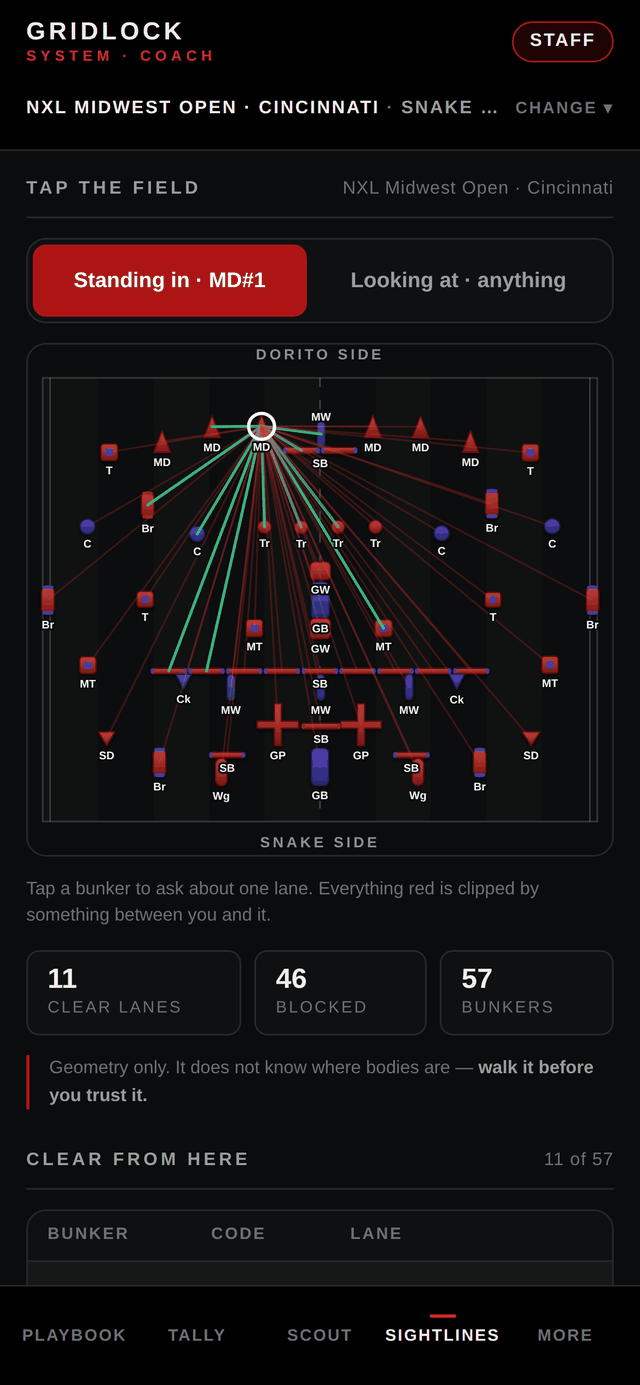
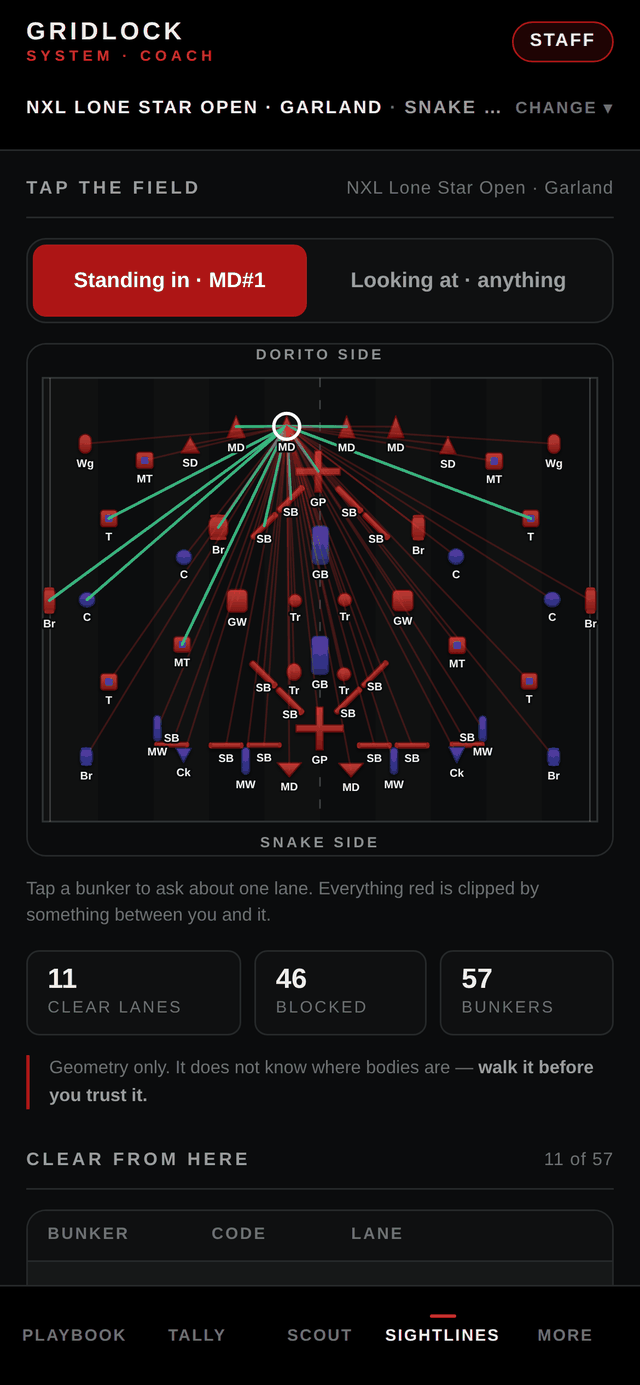
Open on the Lone Star Open, and lead with it
It is the next event on the calendar — Garland, 17 to 20 September — so
it is the one a coach opening the app this fortnight wants on screen. It
is now the default field, the first in the picker, the one the store
screenshots and the landing page show, and the one an unknown saved field
falls back to.

Changing which field the app opens on found a test that had been passing
for the wrong reason. The curve-smoothing check read the paths that were
actually drawn on screen but compared them against Midwest's obstacles,
which it named directly. With a different field on screen it was checking
one layout's curves against another's bunkers, and reported eight
collisions that were not there. It now takes the obstacles from whatever
field is drawn, and runs on all three rather than on one.

Three more checks were pinned to "mwo" where what they meant was "the
field this happened on". Those now read the current layout, so the next
change of opening field does not break them.

368 function checks, 73 device checks across 17 devices, 173/173 bunkers
at 0.0000 ft across three layouts, load test within budget.

Claude-Session: https://claude.ai/code/session_019NY29crEcm2oYkRmb2ARNX

diff --git a/test/functions.js b/test/functions.js
@@ -719,7 +719,7 @@ const ROSTER = [
     document.getElementById("copyIn").value = JSON.stringify({format:"gridlock.coach.copy",v:1,
       data:{layoutKey:"tbo", roster:[{name:"Ghost",num:1,p:"",s:""}]}});
     window.loadCopy("merge");
-    return S.layoutKey === "mwo" && S.roster.some(r => r.name === "Ghost");
+    return !!LAYOUTS[S.layoutKey] && S.roster.some(r => r.name === "Ghost");
   }));
   check("the copy screens are on Nexus", await ev(() => {
     window.set({ tab:"more", more:"nexus" });
@@ -775,7 +775,7 @@ const ROSTER = [
   await ev(() => window.markOut("us", "Reyes"));
   check("an out records the call, the field and the opponent", await ev(() => {
     const o = S.tally[0];
-    return o.script === "snake" && o.layout === "mwo" && o.vs === "Rejects";
+    return o.script === "snake" && o.layout === S.layoutKey && o.vs === "Rejects";
   }));
   await ev(() => { window.setOutBunker(0, "how", "Laned"); window.setOutBunker(0, "by", "#7"); });
   check("an out records how, and who did it", await ev(() =>
@@ -792,7 +792,7 @@ const ROSTER = [
 
   /* ------------------------------------------------ counting what happened */
   G("History");
-  await ev(() => window.set({ tab: "playbook", script: "snake", point: 1, tally: [
+  await ev(() => window.set({ tab: "playbook", layoutKey: "mwo", script: "snake", point: 1, tally: [
     {pt:1, side:"us",   name:"Reyes",  script:"snake", layout:"mwo", vs:"Rejects", how:"Laned",       by:"#7"},
     {pt:1, side:"us",   name:"Vance",  script:"snake", layout:"mwo", vs:"Rejects", how:"Laned",       by:"#7"},
     {pt:1, side:"them", name:"3",      script:"snake", layout:"mwo", vs:"Rejects"},
@@ -1109,8 +1109,10 @@ const ROSTER = [
   // right angles. Rounding must not push the curve into a bunker, so this
   // samples what is actually drawn — the real path element, at 4 samples a
   // foot — and checks every sample against every footprint.
-  const curve = await ev(() => {
-    const obs = routeObstacles(LAYOUTS.mwo.bunkers);
+  const sampleCurves = () => ev(() => {
+    // Whatever field is on screen — the obstacles have to be that field's, or
+    // this compares one layout's curves against another's bunkers.
+    const obs = routeObstacles(curLayout().bunkers);
     const svg = document.querySelector(".field-wrap[data-live] svg.field");
     const paths = [...svg.querySelectorAll("path[stroke='#e5342f']")];
     const bad = [];
@@ -1129,10 +1131,22 @@ const ROSTER = [
         prev = cur;
       }
     });
-    return { paths: paths.length, bad: [...new Set(bad)] };
+    return { key: S.layoutKey, paths: paths.length, bad: [...new Set(bad)] };
   });
+  const curve = await sampleCurves();
   check("the drawn curve is sampled on all five paths", curve.paths === 5, `${curve.paths} paths`);
-  check("rounding a corner never pushes the run into a bunker", curve.bad.length === 0, curve.bad.join(", "));
+  // Every field, not just the one the app happens to open on: rounding that
+  // clears one layout can cut a corner into a bunker on another.
+  const curves = [curve];
+  for(const k of ["mwo", "tby"]){
+    await ev(x => window.set({ layoutKey: x }), k);
+    await page.waitForTimeout(180);
+    curves.push(await sampleCurves());
+  }
+  const cut = curves.filter(c => c.bad.length);
+  check("rounding a corner never pushes the run into a bunker, on any field",
+    cut.length === 0, cut.map(c => `${c.key}: ${c.bad.join(" ")}`).join(" | ")
+      || curves.map(c => c.key).join(", "));
 
   check("edit mode puts a handle on every corner", await ev(() => {
     const corners = currentPaths().reduce((n, p) => n + (p.via || []).length, 0);
@@ -1536,6 +1550,10 @@ const ROSTER = [
   // field owner sent the official 2D. It is the third field, and the first one
   // added after everything geometric had already been made general.
   check("Lone Star carries its own 58 bunkers", await ev(() => LAYOUTS.lso.bunkers.length === 58));
+  check("the app opens on the event that is next", await ev(() => {
+    localStorage.clear();
+    return defaultState().layoutKey === "lso" && Object.keys(LAYOUTS)[0] === "lso";
+  }));
   check("all three fields are different fields", await ev(() => {
     const sig = k => LAYOUTS[k].bunkers.map(b => b.id + b.x + b.y).join();
     return new Set(["mwo", "tby", "lso"].map(sig)).size === 3;

diff --git a/android/app/src/main/assets/public/index.html b/android/app/src/main/assets/public/index.html
@@ -882,8 +882,6 @@ const LSO = [
 ];
 
 const LAYOUTS = {
-  mwo: {name:"NXL Midwest Open · Cincinnati", key:"mwo", bunkers:MWO,
-        source:"Digitized from the official NXL labeled 2D on its printed 10-ft grid."},
   lso: {name:"NXL Lone Star Open · Garland", key:"lso", bunkers:LSO,
         source:"Digitized from the official NXL labeled 2D on its printed 10-ft grid. "
              + "That map is 1500px wide, so these are good to about a fifth of a foot.",
@@ -895,7 +893,9 @@ const LAYOUTS = {
         // off a walk: one man per wire, how far up the field set by how
         // aggressive the break is, never two on the same beam. A coach who has
         // walked Tampa should drag them where they belong — Edit path saves it.
-        plantsFrom:"rule"}
+        plantsFrom:"rule"},
+  mwo: {name:"NXL Midwest Open · Cincinnati", key:"mwo", bunkers:MWO,
+        source:"Digitized from the official NXL labeled 2D on its printed 10-ft grid."}
 };
 const BREAKS = {
   hold:{name:"Hold & Read", paths:[
@@ -1015,7 +1015,7 @@ window.delTeam = name => {
 const defaultState = () => ({
   entered:false, role:"guest", email:"",
   tab:"playbook", more:"classes",
-  layoutKey:"mwo", script:"snake", playing:false, t:0,
+  layoutKey:"lso", script:"snake", playing:false, t:0,
   faceOn:true, shotOn:true, rolesOn:true,
   left:{name:"Blast Camp"},        // which team is in the pit; what you know
   right:{name:"Rejects"},          // about them lives in scout[], keyed by team
@@ -1067,7 +1067,7 @@ function save(s){localStorage.setItem(STORE_KEY, JSON.stringify(s))}
 let S = load();
 // A saved layout that no longer ships — the fabricated Tampa Bay and Cincinnati
 // entries — must not leave a coach staring at an empty field.
-if(!LAYOUTS[S.layoutKey]) S.layoutKey = "mwo";
+if(!LAYOUTS[S.layoutKey]) S.layoutKey = "lso";
 
 // A half-finished paste is scratch, not a record. It should not still be sitting
 // open three days later at the next event.
@@ -1106,7 +1106,7 @@ if(S.codeWords && !(S.codes||[]).length){
 // sites used to fall back and half read straight through, so an unknown key —
 // a layout that stopped shipping, a corrupted save — took the whole screen
 // down instead of showing the field it does have.
-function curLayout(){ return LAYOUTS[S.layoutKey] || LAYOUTS.mwo; }
+function curLayout(){ return LAYOUTS[S.layoutKey] || LAYOUTS.lso; }
 window.S = S;   // the bridge in native.js reads this; set() mutates in place
 const params = new URLSearchParams(location.search);
 if(params.get("c")){ S.joinCode = params.get("c"); S.entered = true; S.tab = "more"; S.more = "classes"; }
@@ -1519,7 +1519,7 @@ window.loadCopy = mode => {
   SESSION.forEach(k => { held[k] = S[k]; });
   const next = mode === "replace" ? {...defaultState(), ...d, ...held} : mergeInto(S, d);
   Object.keys(next).forEach(k => { S[k] = next[k]; });
-  if(!LAYOUTS[S.layoutKey]) S.layoutKey = "mwo";
+  if(!LAYOUTS[S.layoutKey]) S.layoutKey = "lso";
   dropPathCache();
   S.copyText = ""; save(S); render();
 };

diff --git a/ios/App/App/public/index.html b/ios/App/App/public/index.html
@@ -882,8 +882,6 @@ const LSO = [
 ];
 
 const LAYOUTS = {
-  mwo: {name:"NXL Midwest Open · Cincinnati", key:"mwo", bunkers:MWO,
-        source:"Digitized from the official NXL labeled 2D on its printed 10-ft grid."},
   lso: {name:"NXL Lone Star Open · Garland", key:"lso", bunkers:LSO,
         source:"Digitized from the official NXL labeled 2D on its printed 10-ft grid. "
              + "That map is 1500px wide, so these are good to about a fifth of a foot.",
@@ -895,7 +893,9 @@ const LAYOUTS = {
         // off a walk: one man per wire, how far up the field set by how
         // aggressive the break is, never two on the same beam. A coach who has
         // walked Tampa should drag them where they belong — Edit path saves it.
-        plantsFrom:"rule"}
+        plantsFrom:"rule"},
+  mwo: {name:"NXL Midwest Open · Cincinnati", key:"mwo", bunkers:MWO,
+        source:"Digitized from the official NXL labeled 2D on its printed 10-ft grid."}
 };
 const BREAKS = {
   hold:{name:"Hold & Read", paths:[
@@ -1015,7 +1015,7 @@ window.delTeam = name => {
 const defaultState = () => ({
   entered:false, role:"guest", email:"",
   tab:"playbook", more:"classes",
-  layoutKey:"mwo", script:"snake", playing:false, t:0,
+  layoutKey:"lso", script:"snake", playing:false, t:0,
   faceOn:true, shotOn:true, rolesOn:true,
   left:{name:"Blast Camp"},        // which team is in the pit; what you know
   right:{name:"Rejects"},          // about them lives in scout[], keyed by team
@@ -1067,7 +1067,7 @@ function save(s){localStorage.setItem(STORE_KEY, JSON.stringify(s))}
 let S = load();
 // A saved layout that no longer ships — the fabricated Tampa Bay and Cincinnati
 // entries — must not leave a coach staring at an empty field.
-if(!LAYOUTS[S.layoutKey]) S.layoutKey = "mwo";
+if(!LAYOUTS[S.layoutKey]) S.layoutKey = "lso";
 
 // A half-finished paste is scratch, not a record. It should not still be sitting
 // open three days later at the next event.
@@ -1106,7 +1106,7 @@ if(S.codeWords && !(S.codes||[]).length){
 // sites used to fall back and half read straight through, so an unknown key —
 // a layout that stopped shipping, a corrupted save — took the whole screen
 // down instead of showing the field it does have.
-function curLayout(){ return LAYOUTS[S.layoutKey] || LAYOUTS.mwo; }
+function curLayout(){ return LAYOUTS[S.layoutKey] || LAYOUTS.lso; }
 window.S = S;   // the bridge in native.js reads this; set() mutates in place
 const params = new URLSearchParams(location.search);
 if(params.get("c")){ S.joinCode = params.get("c"); S.entered = true; S.tab = "more"; S.more = "classes"; }
@@ -1519,7 +1519,7 @@ window.loadCopy = mode => {
   SESSION.forEach(k => { held[k] = S[k]; });
   const next = mode === "replace" ? {...defaultState(), ...d, ...held} : mergeInto(S, d);
   Object.keys(next).forEach(k => { S[k] = next[k]; });
-  if(!LAYOUTS[S.layoutKey]) S.layoutKey = "mwo";
+  if(!LAYOUTS[S.layoutKey]) S.layoutKey = "lso";
   dropPathCache();
   S.copyText = ""; save(S); render();
 };

diff --git a/web/index.html b/web/index.html
@@ -882,8 +882,6 @@ const LSO = [
 ];
 
 const LAYOUTS = {
-  mwo: {name:"NXL Midwest Open · Cincinnati", key:"mwo", bunkers:MWO,
-        source:"Digitized from the official NXL labeled 2D on its printed 10-ft grid."},
   lso: {name:"NXL Lone Star Open · Garland", key:"lso", bunkers:LSO,
         source:"Digitized from the official NXL labeled 2D on its printed 10-ft grid. "
              + "That map is 1500px wide, so these are good to about a fifth of a foot.",
@@ -895,7 +893,9 @@ const LAYOUTS = {
         // off a walk: one man per wire, how far up the field set by how
         // aggressive the break is, never two on the same beam. A coach who has
         // walked Tampa should drag them where they belong — Edit path saves it.
-        plantsFrom:"rule"}
+        plantsFrom:"rule"},
+  mwo: {name:"NXL Midwest Open · Cincinnati", key:"mwo", bunkers:MWO,
+        source:"Digitized from the official NXL labeled 2D on its printed 10-ft grid."}
 };
 const BREAKS = {
   hold:{name:"Hold & Read", paths:[
@@ -1015,7 +1015,7 @@ window.delTeam = name => {
 const defaultState = () => ({
   entered:false, role:"guest", email:"",
   tab:"playbook", more:"classes",
-  layoutKey:"mwo", script:"snake", playing:false, t:0,
+  layoutKey:"lso", script:"snake", playing:false, t:0,
   faceOn:true, shotOn:true, rolesOn:true,
   left:{name:"Blast Camp"},        // which team is in the pit; what you know
   right:{name:"Rejects"},          // about them lives in scout[], keyed by team
@@ -1067,7 +1067,7 @@ function save(s){localStorage.setItem(STORE_KEY, JSON.stringify(s))}
 let S = load();
 // A saved layout that no longer ships — the fabricated Tampa Bay and Cincinnati
 // entries — must not leave a coach staring at an empty field.
-if(!LAYOUTS[S.layoutKey]) S.layoutKey = "mwo";
+if(!LAYOUTS[S.layoutKey]) S.layoutKey = "lso";
 
 // A half-finished paste is scratch, not a record. It should not still be sitting
 // open three days later at the next event.
@@ -1106,7 +1106,7 @@ if(S.codeWords && !(S.codes||[]).length){
 // sites used to fall back and half read straight through, so an unknown key —
 // a layout that stopped shipping, a corrupted save — took the whole screen
 // down instead of showing the field it does have.
-function curLayout(){ return LAYOUTS[S.layoutKey] || LAYOUTS.mwo; }
+function curLayout(){ return LAYOUTS[S.layoutKey] || LAYOUTS.lso; }
 window.S = S;   // the bridge in native.js reads this; set() mutates in place
 const params = new URLSearchParams(location.search);
 if(params.get("c")){ S.joinCode = params.get("c"); S.entered = true; S.tab = "more"; S.more = "classes"; }
@@ -1519,7 +1519,7 @@ window.loadCopy = mode => {
   SESSION.forEach(k => { held[k] = S[k]; });
   const next = mode === "replace" ? {...defaultState(), ...d, ...held} : mergeInto(S, d);
   Object.keys(next).forEach(k => { S[k] = next[k]; });
-  if(!LAYOUTS[S.layoutKey]) S.layoutKey = "mwo";
+  if(!LAYOUTS[S.layoutKey]) S.layoutKey = "lso";
   dropPathCache();
   S.copyText = ""; save(S); render();
 };

diff --git a/site/index.html b/site/index.html
@@ -510,7 +510,7 @@ footer{background:var(--night);border-top:1px solid var(--line);padding-block:40
       </div>
     </div>
 
-    <div class="phone phone--hero"><img src="img/shots/playbook.png" width="640" height="1385" alt="Playbook: the NXL 2026 Midwest Open layout with the Snake Stack break running, all five paths drawn on the field."/></div>
+    <div class="phone phone--hero"><img src="img/shots/playbook.png" width="640" height="1385" alt="Playbook: the NXL 2026 Lone Star Open layout with the Snake Stack break running, all five paths drawn on the field."/></div>
   </div>
 </header>
 
@@ -582,7 +582,7 @@ footer{background:var(--night);border-top:1px solid var(--line);padding-block:40
         <li><b>Face</b><span>Point a player any of eight ways and the chevron travels with him down the path, so you see where he is looking at every step, not just where he ends up.</span></li>
         <li><b>Shot lanes</b><span>Give a player a bunker to lane and the cone follows him, with a ring on the target. Leave it unset and he lanes the way he is running.</span></li>
         <li><b>Sightlines</b><span>Pick the bunker you are in and every lane to every other bunker is drawn and tested. Green clears. Red clips something on the way. Real geometry, not a sketch.</span></li>
-        <li><b>Real layouts</b><span>The NXL 2026 Midwest Open ships digitized from the official labeled 2D — all 58 bunkers measured off the printed 10-ft grid, not sketched.</span></li>
+        <li><b>Real layouts</b><span>Three NXL 2026 fields ship digitized from the official labeled 2Ds — Lone Star, Tampa Bay and the Midwest Open, every bunker measured off the printed 10-ft grid, not sketched.</span></li>
         <li><b>Your names for it</b><span>Call a bunker whatever your team calls it and the call replaces the official code everywhere — field, sightlines, stats.</span></li>
       </ul>
 

diff --git a/site/support.html b/site/support.html
@@ -91,7 +91,7 @@
     sent it.</dd>
 
     <dt>Why is only one event layout available?</dt>
-    <dd>Because every bunker on it is measured, not drawn from memory. The NXL 2026 Midwest
+    <dd>Because every bunker on it is measured, not drawn from memory. The NXL 2026 Lone Star
     Open is digitized from the official labeled 2D map against its printed 10-ft grid, and
     every bunker on the field matches that map to within a hundredth of a foot. We will not
     ship a layout we cannot measure — a field that is nearly right is worse than no field

diff --git a/scripts/seed.js b/scripts/seed.js
@@ -6,7 +6,7 @@
    coach nothing about whether the app is worth installing. */
 module.exports = {
   entered: true, role: "staff", email: "coach@team.com",
-  tab: "playbook", script: "snake", layoutKey: "mwo",
+  tab: "playbook", script: "snake", layoutKey: "lso",
   faceOn: true, shotOn: true, t: 0.62, matchState: "Even",
   tips: { pb: true, tally: true, scout: true, sl: true, class: true },
   left: {

diff --git a/README.md b/README.md
@@ -142,7 +142,7 @@ Four suites, all driving the real app in a real browser:
 
 | Command | What it proves |
 |---|---|
-| `npm test` | 367 assertions across every interactive function — auth, gating, all five tabs, all eleven More destinations, Scout's four sub-tabs, the 8-way pad, tally, movement, assess, classes, league, persistence, layout integrity, break routing, the roster editor, the walk, code words, lineups, path editing, per-team scouting, the matchup panel, cause of an out, the history it counts, saving and loading a copy, the opponent's breakouts, the field layers, the replay, the QR encoder, the first run, Sightlines by touch, the three fields and their angled beams, the divisions, the rosters the league published, a roster read off a screenshot (against text a real OCR engine returned from a real screenshot), holding your place on screen, and the house rules. |
+| `npm test` | 368 assertions across every interactive function — auth, gating, all five tabs, all eleven More destinations, Scout's four sub-tabs, the 8-way pad, tally, movement, assess, classes, league, persistence, layout integrity, break routing, the roster editor, the walk, code words, lineups, path editing, per-team scouting, the matchup panel, cause of an out, the history it counts, saving and loading a copy, the opponent's breakouts, the field layers, the replay, the QR encoder, the first run, Sightlines by touch, the three fields and their angled beams, the divisions, the rosters the league published, a roster read off a screenshot (against text a real OCR engine returned from a real screenshot), holding your place on screen, and the house rules. |
 | `npm run test:devices` | Every iPhone since the SE 2, the iPad line, and two Android references — 14 devices x 5 tabs. Checks for sideways scroll, a tab bar off the viewport, any tap target under 44 px, and running text past 80 characters a line. Safe-area padding is asserted from the CSS, since Chromium has no notch to emulate. |
 | `npm run verify:bunkers` | Reads the drawn SVG back out of the browser and compares every footprint against the digitized map, by bunker id. Currently 173/173 across all three layouts at 0.00 ft. |
 | `npm run loadtest` | A full season seeded on a 4x-throttled CPU. See `docs/SCALING.md`. |
@@ -171,7 +171,7 @@ from the opponent read and the match state; Breakouts counting the calls you hav
 seen a team make; Layers drawing everything logged against them where it happened;
 Games replaying a point out by out; a board that opens on NXL Pro X-Ball, with the semi-pro list behind a picker, a FILM
 column marking the teams you have something on, and a way to add a team the
-season list missed); Sightlines with real blocking geometry; the NXL 2026 Midwest Open
+season list missed); Sightlines with real blocking geometry; the NXL 2026 Lone Star Open, Tampa Bay Open and Midwest Open
 layout digitized from the official labeled 2D (58 bunkers) with its own
 breakouts landing on real bunkers; the 8-way face pad, shot targets and P|S
 roles, stored per layout per break and drawn travelling with the player; path

diff --git a/docs/STORE-LISTING.md b/docs/STORE-LISTING.md
@@ -74,7 +74,7 @@ paintball,coach,xball,nxl,speedball,breakout,sideline,layout,bunker,scrimmage,le
 GRIDLOCK Coach is the sideline tool for paintball coaches and league staff. Pick the event, call the break, direct all five players, and read the other pit — between points, on a phone, with gloves on.
 
 MEASURED, NOT DRAWN
-The field is the NXL 2026 Midwest Open, digitized from the official labeled 2D map against its printed 10-ft grid. Every one of the 58 bunkers matches that map to within a hundredth of a foot, and the app ships a check that proves it on every build. A field that is nearly right is worse than no field at all when you are calling a break off it.
+Three NXL 2026 fields ship — the Lone Star Open, the Tampa Bay Open and the Midwest Open — each digitized from its official labeled 2D against the printed 10-ft grid. Every one of the 173 bunkers matches its map to within a hundredth of a foot, and the app ships a check that proves it on every build. A field that is nearly right is worse than no field at all when you are calling a break off it.
 
 PLAYBOOK
 Five breakouts, each one drawn as real routes to real bunkers — routed around the snake and everything else, because nobody runs through an inflatable. Direct all five: set primary and secondary roles, point a player's face any of eight ways, and give them a named bunker to lane. Play the break and watch it develop, with each chevron and shot cone travelling with its player.
